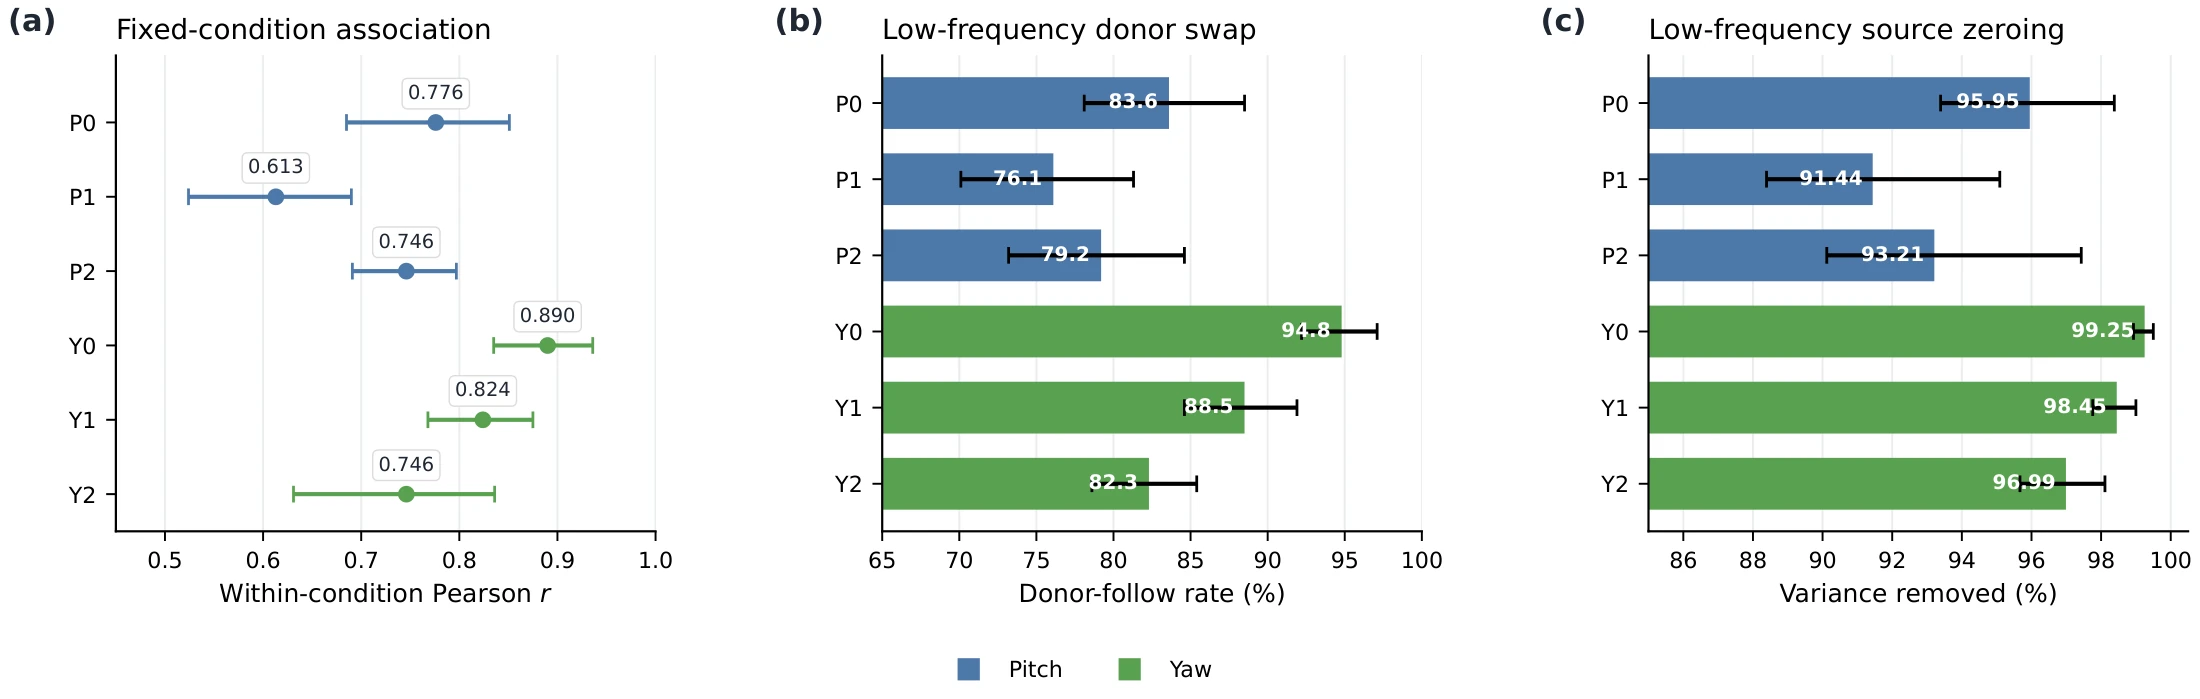
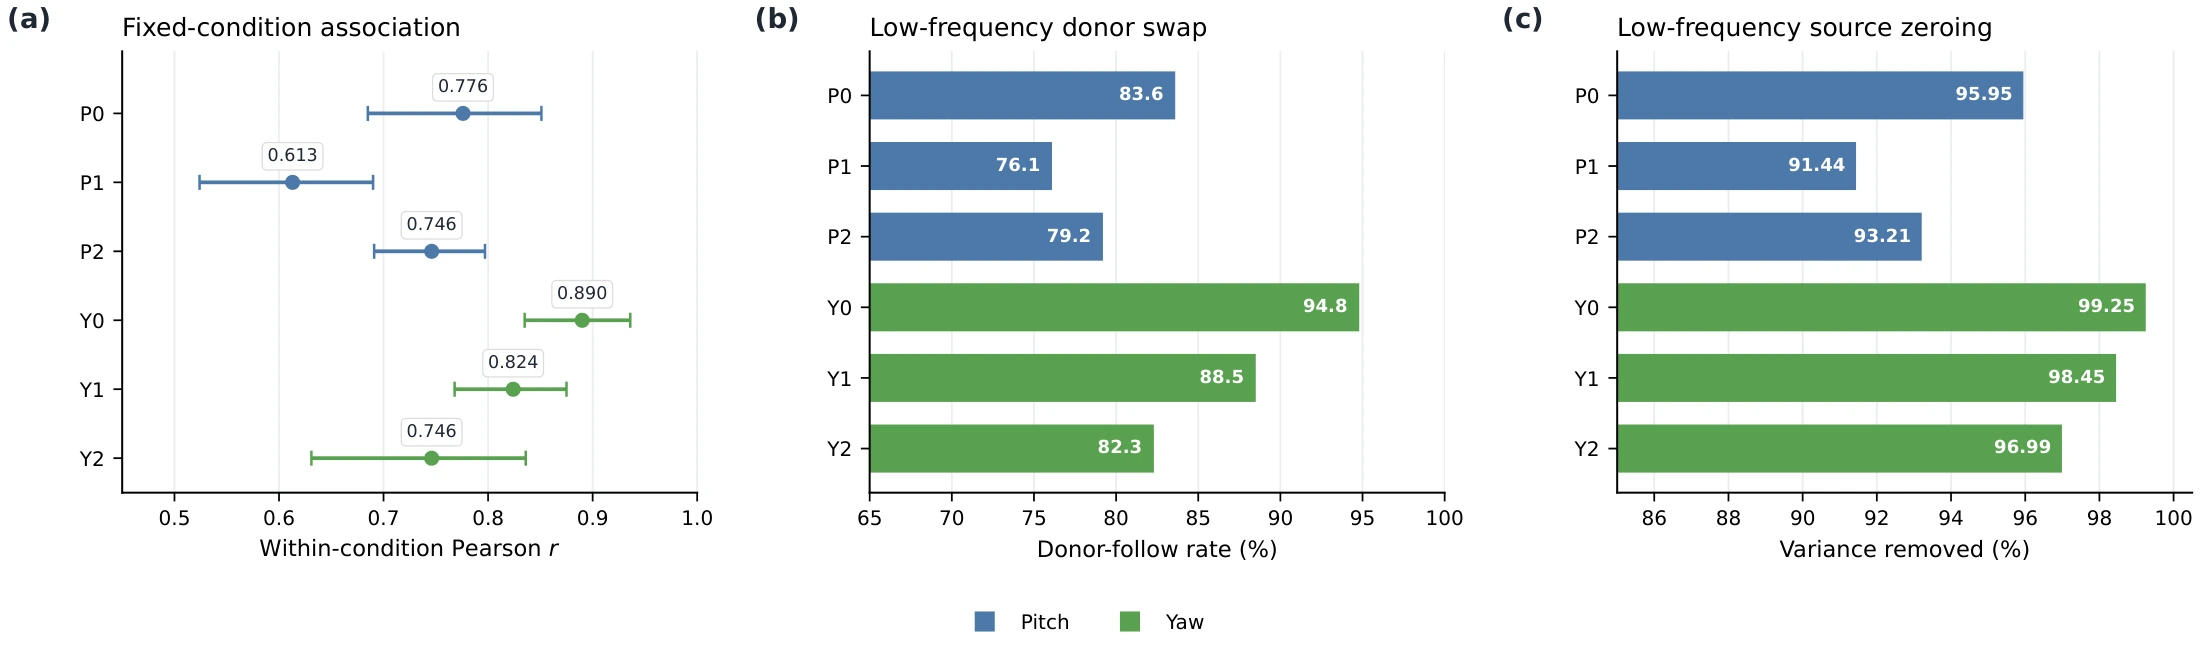
Update LASI analysis figures

diff --git a/index.html b/index.html
@@ -326,15 +326,15 @@
 
         <div class="lasi-figures">
           <figure class="paper-figure">
-            <img src="./assets/images/lasi-causal-evidence.webp" width="2200" height="699" loading="lazy" alt="Controlled LASI experiments measuring fixed-condition association, low-frequency source replacement, and source zeroing.">
+            <img src="./assets/images/lasi-causal-evidence.webp" width="2200" height="648" loading="lazy" alt="Controlled LASI experiments measuring fixed-condition association, low-frequency source replacement, and source zeroing.">
             <figcaption><strong>Controlled evidence.</strong> Within-condition association, donor replacement, and zeroing quantify the effect of sampled low-frequency source components on generated camera-action coefficients.</figcaption>
           </figure>
           <figure class="paper-figure">
-            <img src="./assets/images/lasi-frequency-amplification.webp" width="2200" height="640" loading="lazy" alt="LASI frequency-response and amplification analyses comparing low- and high-frequency source effects.">
+            <img src="./assets/images/lasi-frequency-amplification.webp" width="2200" height="601" loading="lazy" alt="LASI frequency-response and amplification analyses comparing low- and high-frequency source effects.">
             <figcaption><strong>Frequency selectivity and amplification.</strong> Across the tested perturbations, low-frequency modes produce larger responses, and source gain increases along the iterative model path.</figcaption>
           </figure>
-          <figure class="paper-figure">
-            <img src="./assets/images/lasi-closed-loop.webp" width="2200" height="844" loading="lazy" alt="Closed-loop LASI analysis measuring alignment between action-source and executed-action low-frequency DCT coefficients across replanning steps.">
+          <figure class="paper-figure lasi-closed-loop-figure">
+            <img src="./assets/images/lasi-closed-loop.webp" width="2200" height="726" loading="lazy" alt="Closed-loop LASI analysis measuring alignment between action-source and executed-action low-frequency DCT coefficients across replanning steps.">
             <figcaption><strong>Closed-loop alignment.</strong> Episode-adjusted source/action association is strongest at the correct source–replanning alignment across the analyzed trajectories.</figcaption>
           </figure>
         </div>

diff --git a/assets/css/styles.css b/assets/css/styles.css
@@ -223,6 +223,7 @@ tbody tr.best { color: #087a73; background: #edf9f7; }
 .lasi-stats span { color: #6d6680; font-size: 11px; line-height: 1.4; text-transform: uppercase; letter-spacing: .08em; }
 .lasi-figures { display: grid; gap: 26px; }
 .lasi-figures .paper-figure { background: var(--white); border-color: #d9d2ec; box-shadow: 0 14px 35px rgba(63,45,102,.08); }
+.lasi-closed-loop-figure { width: min(100%, 820px); justify-self: center; }
 .lasi-figures figcaption { color: var(--ink-soft); }
 .lasi-figures figcaption strong { color: var(--ink); }
 
